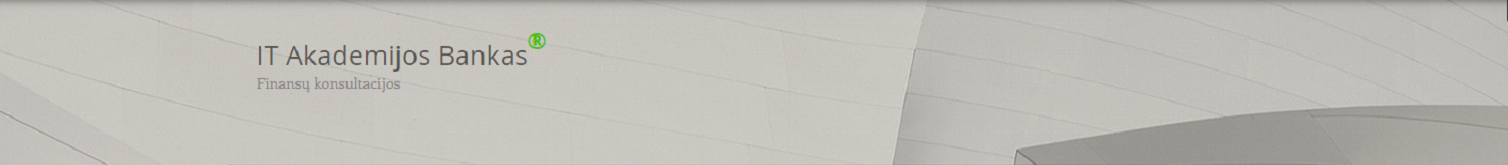
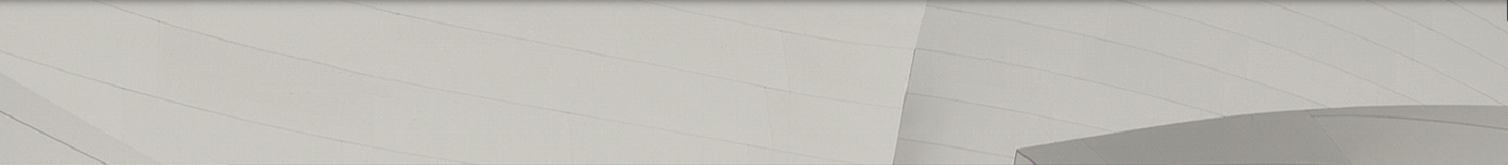
html done

Changed region(s): [[0.1558, 0.2121, 0.374, 0.4242], [0.1558, 0.4848, 0.2805, 0.5455]]

diff --git a/src/main/resources/static/extra/style.css b/src/main/resources/static/extra/style.css
@@ -5,6 +5,32 @@
     width: 100%;
     float: left;
 }
+.language{
+    overflow: hidden;
+    float: right;
+    margin-top: 4%;
+    margin-right: 30%;
+}
+.text{
+    color: #50b03f;
+    text-shadow: 1px 1px 1px black;
+}
+.header {
+    overflow: hidden;
+    background-image: url("header.png");
+    background-size: 100% 100%;
+    background-repeat: no-repeat;
+    width: 100%;
+    height: 165px;
+    float: left;
+}
+.loginMain {
+    background-image: url("loginMain.png");
+    background-size: 100% 100%;
+    background-repeat: no-repeat;
+    width: 100%;
+    float: left;
+}
 .footer {
     background-image: url("footer.png");
     background-size: 100% 100%;
@@ -13,65 +39,123 @@
     height: 113px;
     float: left;
 }
+.headerText {
+    margin-left: 18%;
+    margin-top: 2%;
+    height: 100%;
+    float: left;
+    overflow: hidden;
+    align-items: center;
+    text-wrap: normal;
+    color: #7d7d7d;
+}
 .footerText {
-    margin-left: 50%;
+    margin-left: 45%;
+    margin-top: 1%;
+    width: 30%;
+    height: 100%;
+    float: left;
+    overflow: hidden;
+    align-items: center;
+    text-wrap: normal;
+    color: darkgray;
+}
+.login {
+    border-radius: 7%;
+    box-shadow: 3px 3px 15px black;
+    background-color: #48c100;
+    margin-left: 38%;
+    margin-bottom: 2%;
+    padding: 1.5%;
+    width: 18%;
+    height: 100%;
+    color: azure;
+    float: left;
+    overflow: hidden;
+    align-items: center;
+}
+.columnWriteUs {
+    margin-left: 14.5%;
     margin-top: 3%;
     margin-bottom: 3%;
     width: 20%;
     height: 100%;
     float: left;
     overflow: hidden;
-    text-wrap: normal;
-    align-items: center;
-}
-.login {
-    background-color: limegreen;
-    margin-left: 36%;
-    margin-top: 1%;
-    margin-bottom: 1%;
-    padding: 2%;
-    width: 18%;
-    height: 100%;
-    float: left;
-    overflow: hidden;
-    align-items: center;
-}
-.columnWriteUs {
-    margin-left: 15.5%;
-    margin-top: 3%;
-    margin-bottom: 3%;
-    width: 18%;
-    height: 100%;
-    float: left;
-    overflow: hidden;
     align-items: center;
 }
 .columnRegister {
-    margin-left: 2%;
     margin-top: 3%;
     margin-bottom: 3%;
-    width: 18%;
+    width: 20%;
     height: 100%;
     float: left;
     overflow: hidden;
     align-items: center;
 }
 .columnMyReg {
-    margin-left: 3%;
     margin-top: 3%;
     margin-bottom: 3%;
-    width: 18%;
+    width: 20%;
     height: 100%;
     float: left;
     overflow: hidden;
     align-items: center;
 }
+.checkboxStyle{
+    width:15px;
+    height:15px;
+    color: #48c100;
+    background-color: #48c100;
+}
+/*--------------------------------------------------------------------------------------------------------
+---------------------------------------- LOGIN BUTTON ----------------------------------------------------
+--------------------------------------------------------------------------------------------------------*/
+.buttonLogin{
+    display: inline-block;
+    border-radius: 4px;
+    text-shadow: 1px 1px 5px black;
+    background-color: #50b03f;
+    border: 1px solid dimgrey;
+    color: #FFFFFF;
+    text-align: center;
+    font-size: 16px;
+    width: 110px;
+    transition: all 0.5s;
+    cursor: pointer;
+}
+.buttonLogin span {
+    cursor: pointer;
+    display: inline-block;
+    position: relative;
+    transition: 0.5s;
+}
+.buttonLogin span:after {
+    content: '»';
+    position: absolute;
+    opacity: 0;
+    top: 0;
+    right: -20px;
+    transition: 0.5s;
+}
+.buttonLogin:hover span {
+    padding-right: 25px;
+}
+.buttonLogin:hover span:after {
+    opacity: 1;
+    right: 0;
+}
+/*--------------------------------------------------------------------------------------------------------
+----------------------------------------------------------------------------------------------------------
+--------------------------------------------------------------------------------------------------------*/
 .buttonWriteUs {
     background-image: url("write_us.png");
     background-size: 100% 100%;
     background-repeat: no-repeat;
     width: 65%;
     height: 50px;
+    color: azure;
+    overflow: hidden;
 }
 .buttonRegister {
     background-image: url("register.png");
@@ -79,6 +163,8 @@
     background-repeat: no-repeat;
     width: 65%;
     height: 50px;
+    color: azure;
+    overflow: hidden;
 }
 .buttonMyReg {
     background-image: url("myRegistrations.png");
@@ -86,4 +172,15 @@
     background-repeat: no-repeat;
     width: 65%;
     height: 50px;
+    overflow: hidden;
+}
+.buttonText{
+    text-wrap: normal;
+    text-shadow: 2px 2px 5px black;
+    margin-left: 30%;
+    color: azure;
+    display: flex;
+    height: 100%;
+    align-items: center;
+    justify-content: center;
 }

diff --git a/src/main/resources/static/pages/login.html b/src/main/resources/static/pages/login.html
@@ -6,22 +6,34 @@
 </head>
 <body>
 
-<div>
-    <img src="extra/header.png" alt="header" width="100%">
+<div class="header">
+    <div class="headerText">
+        <h2>IT Akademijos Bankas</h2>
+        Finansų konsultacijos
+    </div>
+    <div class="language">
+        <a href="#" class="text">LT</a>
+        |
+        <a href="#" class="text">EN</a>
+    </div>
 </div>
 
 <div>
     <img src="extra/NOcontactus.png" alt="contactus" width="100%">
 </div>
 
-<div class="main">
+<div class="loginMain">
 
     <div class="login">
         <form method="" action="">
-            <input name="email" type="email" placeholder="El. paštas" width="100%"><br><br>
-            <input name="password" type="password" placeholder="Slaptažodis" width="100%"><br><br>
-            <input type="submit" align="right">
-            <input type="checkbox">Likti prisijungus
+            <input name="email" type="email" placeholder="El. paštas" style="width: 100%;"><br><br>
+            <input name="password" type="password" placeholder="Slaptažodis" style="width: 100%;"><br>
+            <div style="padding-top: 3%; float: right;">
+                <button type="submit" align="right" style="vertical-align:middle" class="buttonLogin"><span>Prisijungti </span></button>
+            </div>
+            <div style="padding-top: 16%">
+                <input type="checkbox" class="checkboxStyle"> Likti prisijungus
+            </div>
         </form>
     </div>
 </div>

diff --git a/src/main/resources/static/pages/home.html b/src/main/resources/static/pages/home.html
@@ -15,8 +15,16 @@
     </form>
 </div>
 -->
-<div>
-    <img src="extra/header.png" alt="header" width="100%">
+<div class="header">
+    <div class="headerText">
+        <h2>IT Akademijos Bankas</h2>
+        Finansų konsultacijos
+    </div>
+    <div class="language">
+        <a href="#" class="text">LT</a>
+        |
+        <a href="#" class="text">EN</a>
+    </div>
 </div>
 
 <div>
@@ -25,13 +33,13 @@
 
 <div class="main">
     <div class="columnWriteUs" align="center">
-        <a href="#/contact"><img src="extra/write_us.png" alt="write_us" width="65%"></a>
+        <a href="#/contact"><div class="buttonWriteUs"><div class="buttonText">Write US</div></div></a>
     </div>
     <div class="columnRegister" align="center">
-        <a href="#/register"><img src="extra/register.png" alt="register" width="65%"></a>
+        <a href="#/register"><div class="buttonRegister"><div class="buttonText">Registruotis Internetu</div></div></a>
     </div>
     <div class="columnMyReg" align="center">
-        <a href="#/history"><img src="extra/myRegistrations.png" alt="myRegistrations" width="65%"></a>
+        <a href="#/history"><div class="buttonMyReg"><div class="buttonText">Mano registracijos</div></div></a>
     </div>
 </div>
 
